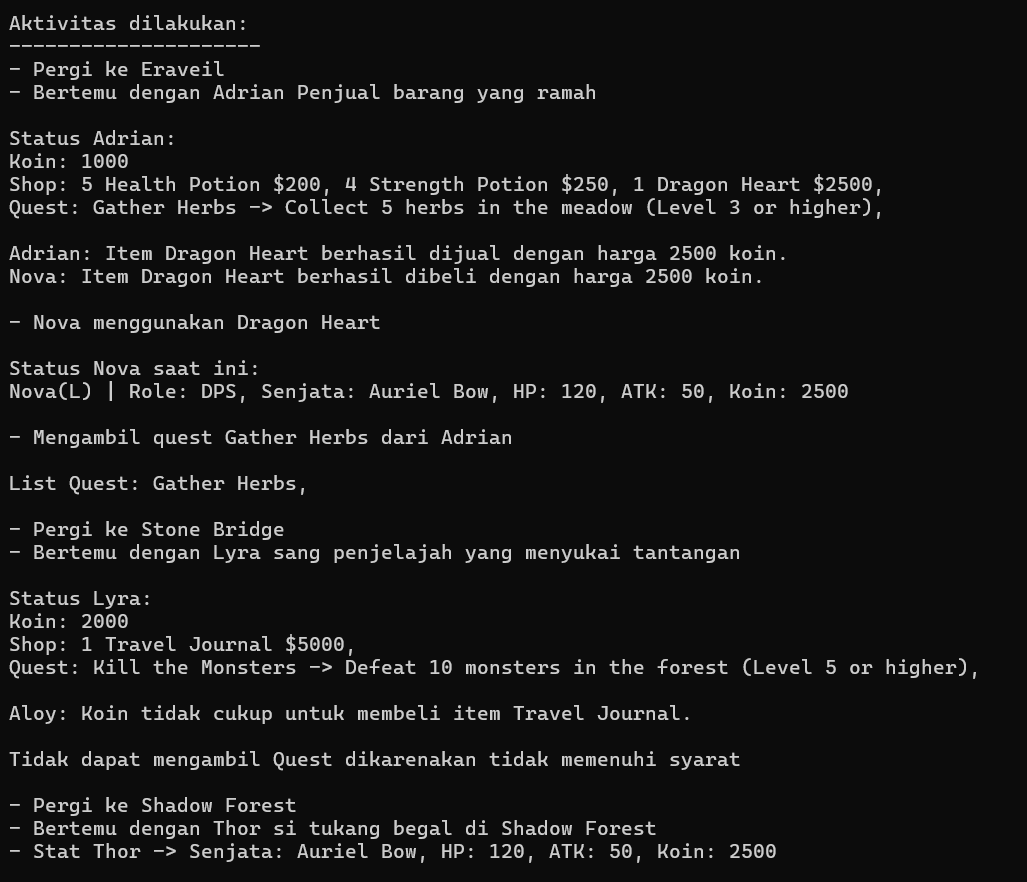
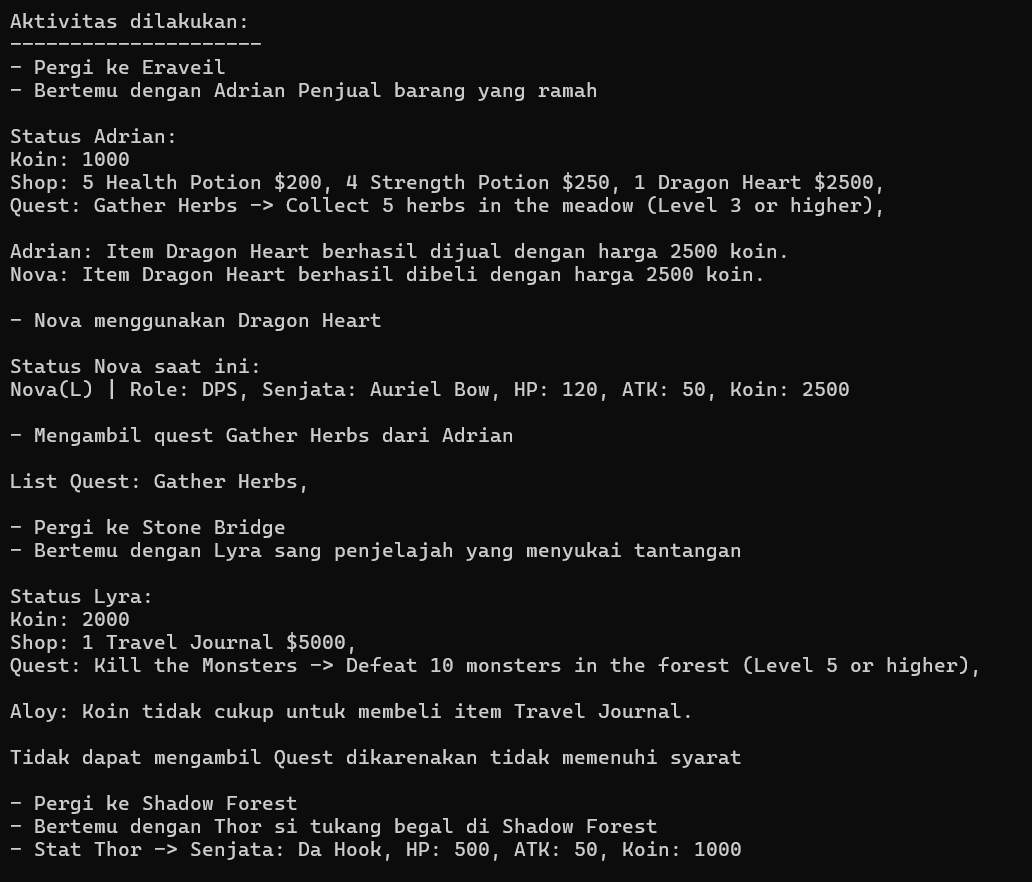
minor fix

diff --git a/Program/Main.java b/Program/Main.java
@@ -212,8 +212,8 @@ public class Main {
         System.out.println("- Bertemu dengan Thor " + npc3.getDeskripsi());
 
         System.out.print("- Stat Thor -> ");
-        System.out.println("Senjata: " + leader.getSenjata() + ", HP: " + leader.getHp() + ", ATK: "
-                + leader.getAtk() + ", Koin: " + leader.getKoin());
+        System.out.println("Senjata: " + npc3.getSenjata() + ", HP: " + npc3.getHp() + ", ATK: "
+                + npc3.getAtk() + ", Koin: " + npc3.getKoin());
 
         // Pertarungan dimulai
         System.out.println();

diff --git a/README.md b/README.md
@@ -1,15 +1,19 @@
 # TP1DPBO2024C2
 
 ## Janji
+
 Saya Muhamad Tio Ariyanto [2201718] mengerjakan soal Tugas Praktikum 1
 dalam mata kuliah DPBO untuk keberkahanNya saya tidak melakukan kecurangan
 seperti yang telah dispesifikasikan. Aamiin
 
 ## Desain Program
+
 ![TP1DPBO drawio](https://github.com/Osaraku/TP1DPBO2024C2/assets/117560099/6461826e-d58d-4797-a452-f315512886b7)
 
 ## Penjelasan Desain Program
+
 Terdapat 8 kelas pada program ini, antara lain:
+
 1. Character
    - Kelas Character memiliki atribut-atribut seperti nama, jenisKelamin, role, hp, atk, dan koin yang merepresentasikan karakter dalam suatu permainan.
    - Atribut-atribut ini dapat diakses dan dimodifikasi melalui metode-metode getter dan setter yang disediakan.
@@ -37,12 +41,14 @@ Terdapat 8 kelas pada program ini, antara lain:
    - Terdapat konstruktor yang digunakan untuk menginisialisasi objek dengan nilai-nilai atribut yang diberikan.
    - Terdapat metode getter dan setter untuk atribut senjata dan itemDrop.
    - Terdapat metode menerimaDamage yang digunakan untuk mengurangi jumlah HP karakter saat menerima serangan dari musuh.
-7.  PartyMember
-   - Kelas PartyMember merupakan turunan dari kelas Character.
-   - Kelas ini memiliki atribut senjata dan penyimpanan (daftar item yang disimpan).
-   - Terdapat metode untuk menambah dan menghapus item dalam daftar penyimpanan.
-   - Metode menerimaDamage digunakan untuk mengurangi hit points (hp) saat menerima serangan musuh.
-   - Terdapat metode untuk melakukan transaksi jual beli item.
+7. PartyMember
+
+- Kelas PartyMember merupakan turunan dari kelas Character.
+- Kelas ini memiliki atribut senjata dan penyimpanan (daftar item yang disimpan).
+- Terdapat metode untuk menambah dan menghapus item dalam daftar penyimpanan.
+- Metode menerimaDamage digunakan untuk mengurangi hit points (hp) saat menerima serangan musuh.
+- Terdapat metode untuk melakukan transaksi jual beli item.
+
 8. PartyLeader
    - Kelas PartyLeader merupakan turunan dari kelas Character.
    - Kelas ini memiliki atribut tambahan seperti senjata, anggota, penyimpanan, listQuest, dan partyLevel.
@@ -50,6 +56,7 @@ Terdapat 8 kelas pada program ini, antara lain:
    - Terdapat metode untuk menerima damage, jual beli item, dan manipulasi koin.
 
 ## Dokumentasi
+
 ![screenshot-1](https://github.com/Osaraku/TP1DPBO2024C2/assets/117560099/9bab655b-12c7-466f-a50d-9551c48e8619)
 ![screenshot-2](https://github.com/Osaraku/TP1DPBO2024C2/assets/117560099/dceab8fb-631d-4329-b22b-ebc85d860584)
 ![screenshot-3](https://github.com/Osaraku/TP1DPBO2024C2/assets/117560099/89dbd434-3b40-4e41-8cb0-cd314f1ef371)
